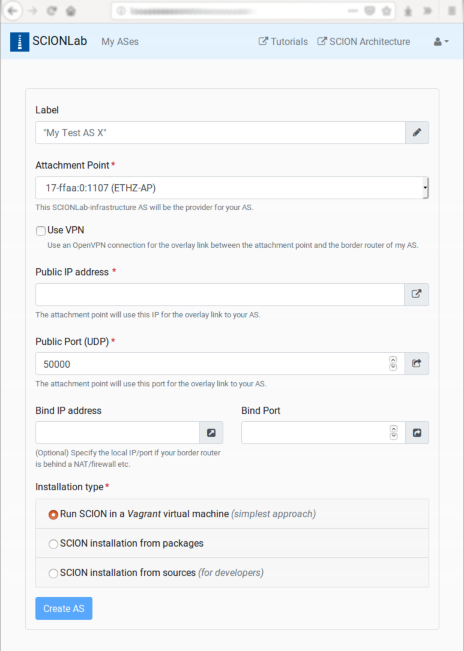
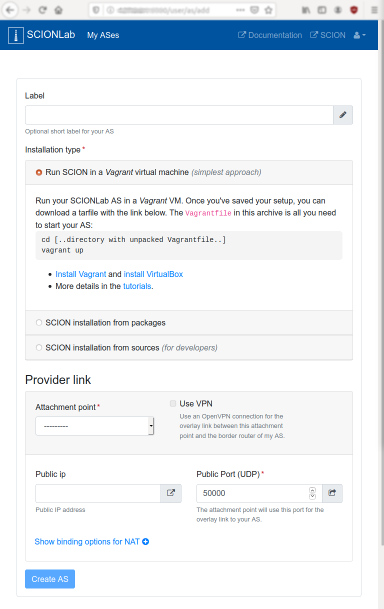
Document new multi-AP configuration

diff --git a/content/config/create_as.md b/content/config/create_as.md
@@ -4,7 +4,7 @@ parent: Configuration
 nav_order: 10
 ---
 
-# Creating SCIONLab AS
+# Creating a SCIONLab AS
 
 ## SCIONLab Portal Overview
 
@@ -24,7 +24,7 @@ This view is initially empty, later you will see a list of your ASes:
 * The columns in this summary refer to the configuration you've made for this AS, as discussed below.
 * The link with the <span class="fa fa-pencil"></span>-symbol in the `AS ID` column  brings you to the edit page for an AS.
 * The link with the <span class="fa fa-download"></span>-symbol in the `Configuration` column lets you download the configuration tarfile for an AS.
-* The tick or cross in the `Active` column indicates whether an AS has been deactivated (using the corresponding button on the edit page).
+* The tick or cross in the `Active` column indicates whether an AS has been deactivated (using the corresponding button or check-boxes in the edit page).
 
 
 ## Configure a SCIONLab AS
@@ -37,15 +37,19 @@ The `Create a new SCIONLab AS` button or the edit link for an existing AS will b
 
 *   Label: here you can add a short label for your AS that will be displayed on the `My ASes` list page. This label just helps you identify your ASes and doesn't have any other functionality.
 
-*   Attachment Point: this selects the provider AS for your AS. This selection also determines the ISD (isolation domain) which your AS will belong to.
-
-    After creating your AS, you can still change your Attachment Point as often as you want.
-
-    For lower latency, prefer to pick an Attachment Point that is closest to you -- the topology map on the [SCIONLab home page](https://www.scionlab.org) has some hints on the geographical regions in which the ASes are located.
+*   Installation Type: select the way you have installed or will install SCION. Please refer to [Installation/Pick an Option](../install/index.html).
 
 -----
 
-The following options are the parameters for the overlay link between the border router in your AS and the border router in the Attachment Point AS.
+The following options configure the "Provider links" for your AS. For each of your ASes, you can create up to 5 overlay links to provider infrastructure ASes called "Attachment Points".
+The interface is restricted to only add one link at a time, so during creation of your AS, you can define (exactly) one "Provider link".
+Each of these links is a Provider-Customer link in the SCION network topology, which cannot cross ISD boundaries. Thus, you can create only links to Attachment Point ASes in the same ISD.
+
+The following options configure each "Provider link", that is, the options define the parameters for the overlay link between the border router in your AS and the border router in an Attachment Point AS.
+
+*   Attachment Point: this selects the provider AS to which a link will be established. This selection also determines the ISD (isolation domain) which your AS will belong to.
+
+    For lower latency, prefer to pick an Attachment Point that is closest to you -- the topology map on the [SCIONLab home page](https://www.scionlab.org) has some hints on the geographical regions in which the ASes are located.
 
 *   Use VPN: if enabled, an OpenVPN tunnel is configured between your AS and the chosen Attachment Point.
 
@@ -92,12 +96,6 @@ available Attachment Points have an IPv6 address configured.
 
     If you are behind a NAT or firewall, make sure to open/forward the chosen port. For this you may need to contact your network administrator.
     If you have a port forwarding rule that rewrites the port number, enter the local port number in the `Bind Port` field, otherwise leave it blank.
-
------
-
-Finally, select the type of SCION installation for which the configuration should be created.
-
-* Installation Type: please refer to [Installation/Pick an Option](../install/index.html).
 
 
 ## Download and install configuration

diff --git a/content/install/pkg.md b/content/install/pkg.md
@@ -82,8 +82,6 @@ configuration tarfile from the SCIONLab website and unpack it.
         # Start SCION
         sudo systemctl start scionlab.target
 
-[//]: # (TODO mkdocs is broken here, the f*in < renderes as &lt; ffs)
-
 
 ## Running SCION
 
